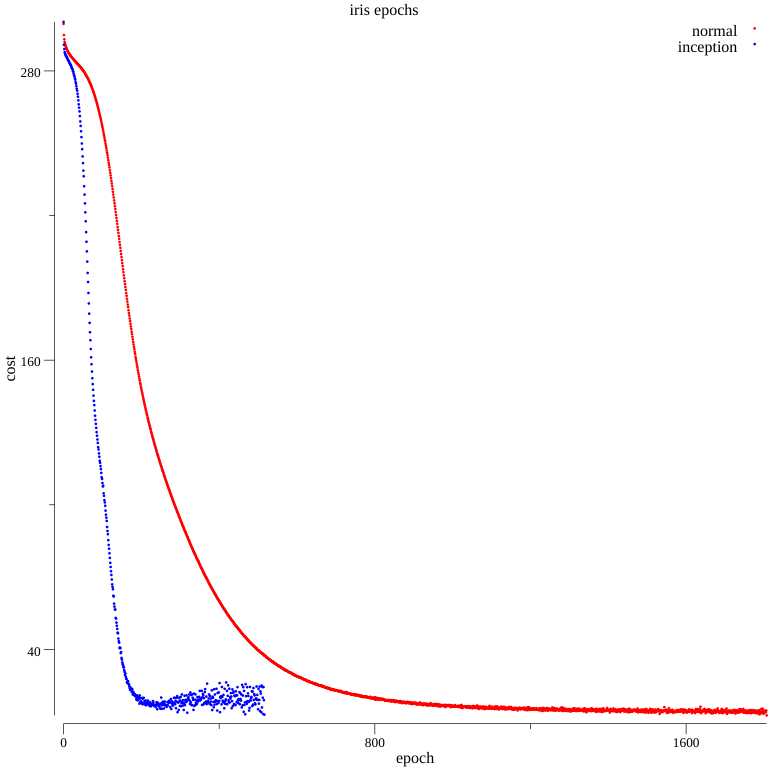
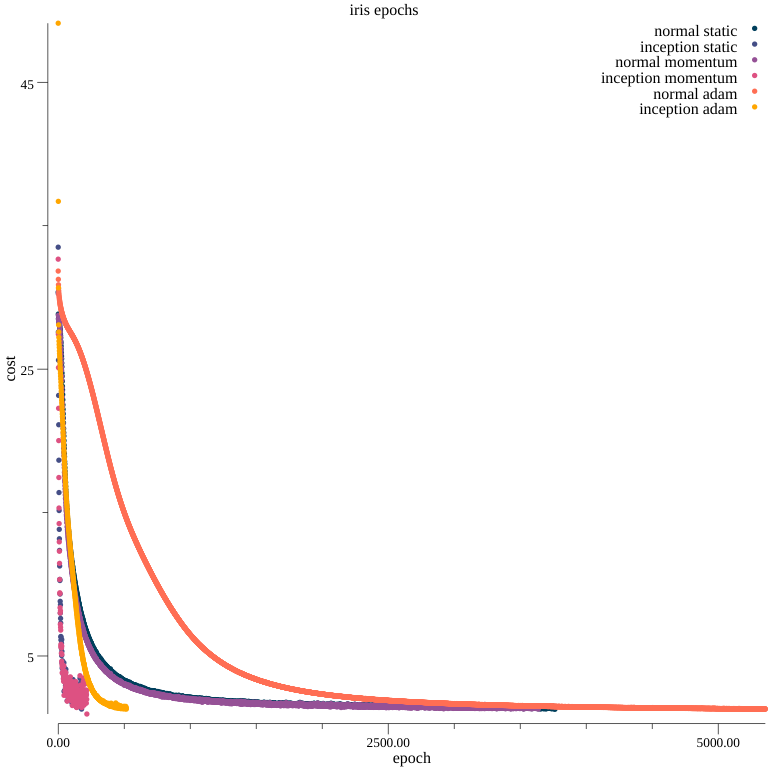
Updated results

diff --git a/experiment_xor.go b/experiment_xor.go
@@ -7,6 +7,7 @@ package main
 import (
 	"fmt"
 	"math/rand"
+	"sort"
 
 	"gonum.org/v1/plot"
 	"gonum.org/v1/plot/plotter"
@@ -168,7 +169,7 @@ func XORExperiment(seed int64, width, depth int, optimizer Optimizer, batch, inc
 			total := tf32.Gradient(cost).X[0]
 			optimize(i)
 			costs = append(costs, total)
-			if total < .025 {
+			if total < .01 {
 				converged = true
 				break
 			}
@@ -232,25 +233,46 @@ func XORExperiment(seed int64, width, depth int, optimizer Optimizer, batch, inc
 
 // RunXORRepeatedExperiment runs multiple xor experiments
 func RunXORRepeatedExperiment() {
-	experiment := func(seed int64, inception, context bool, results chan<- Result) {
-		results <- XORExperiment(seed, 3, 16, OptimizerAdam, true, inception, false, context)
-	}
-	normalStats, inceptionStats := Statistics{}, Statistics{}
-	normalResults, inceptionResults := make(chan Result, 8), make(chan Result, 8)
-	for i := 1; i <= 256; i++ {
-		go experiment(int64(i), false, false, normalResults)
-		go experiment(int64(i), true, false, inceptionResults)
-	}
-	for normalStats.Count < 256 || inceptionStats.Count < 256 {
-		select {
-		case result := <-normalResults:
-			normalStats.Aggregate(result)
-		case result := <-inceptionResults:
-			inceptionStats.Aggregate(result)
+	run := func(optimizer Optimizer) (normalStats, inceptionStats Statistics) {
+		normalStats.Mode, inceptionStats.Mode = "normal", "inception"
+		normalStats.Optimizer, inceptionStats.Optimizer = optimizer, optimizer
+		experiment := func(seed int64, inception, context bool, results chan<- Result) {
+			results <- XORExperiment(seed, 3, 16, optimizer, true, inception, false, context)
 		}
+		normalResults, inceptionResults := make(chan Result, 8), make(chan Result, 8)
+		for i := 1; i <= 256; i++ {
+			go experiment(int64(i), false, false, normalResults)
+			go experiment(int64(i), true, false, inceptionResults)
+		}
+		for normalStats.Count < 256 || inceptionStats.Count < 256 {
+			select {
+			case result := <-normalResults:
+				normalStats.Aggregate(result)
+			case result := <-inceptionResults:
+				inceptionStats.Aggregate(result)
+			}
+		}
+		return
 	}
-	fmt.Printf("normal: %s\n", normalStats.String())
-	fmt.Printf("inception: %s\n", inceptionStats.String())
+
+	statistics := []Statistics{}
+	for _, optimizer := range Optimizers {
+		normalStats, inceptionStats := run(optimizer)
+		statistics = append(statistics, normalStats, inceptionStats)
+	}
+	sort.Slice(statistics, func(i, j int) bool {
+		return statistics[i].AverageEpochs() < statistics[j].AverageEpochs()
+	})
+
+	fmt.Println("| Mode | Optimizer | Converged | Epochs |")
+	fmt.Println("| ---- | --------- | --------- | ------ |")
+	for _, statistic := range statistics {
+		fmt.Printf("| %s | %s | %f | %f |\n",
+			statistic.Mode,
+			statistic.Optimizer.String(),
+			statistic.ConvergenceProbability(),
+			statistic.AverageEpochs())
+	}
 }
 
 // RunXORExperiment runs an xor experiment once

diff --git a/experiment_iris.go b/experiment_iris.go
@@ -8,6 +8,7 @@ import (
 	"fmt"
 	"math"
 	"math/rand"
+	"sort"
 	"sync"
 
 	"gonum.org/v1/plot"
@@ -322,25 +323,46 @@ func IrisExperiment(seed int64, width, depth int, optimizer Optimizer, batch, in
 
 // RunIrisRepeatedExperiment runs multiple iris experiments
 func RunIrisRepeatedExperiment() {
-	experiment := func(seed int64, inception, context bool, results chan<- Result) {
-		results <- IrisExperiment(seed, 3, 4, OptimizerAdam, true, inception, false, context)
-	}
-	normalStats, inceptionStats := Statistics{}, Statistics{}
-	normalResults, inceptionResults := make(chan Result, 8), make(chan Result, 8)
-	for i := 1; i <= 256; i++ {
-		go experiment(int64(i), false, false, normalResults)
-		go experiment(int64(i), true, false, inceptionResults)
-	}
-	for normalStats.Count < 256 || inceptionStats.Count < 256 {
-		select {
-		case result := <-normalResults:
-			normalStats.Aggregate(result)
-		case result := <-inceptionResults:
-			inceptionStats.Aggregate(result)
+	run := func(optimizer Optimizer) (normalStats, inceptionStats Statistics) {
+		normalStats.Mode, inceptionStats.Mode = "normal", "inception"
+		normalStats.Optimizer, inceptionStats.Optimizer = optimizer, optimizer
+		experiment := func(seed int64, inception, context bool, results chan<- Result) {
+			results <- IrisExperiment(seed, 3, 4, optimizer, true, inception, false, context)
 		}
+		normalResults, inceptionResults := make(chan Result, 8), make(chan Result, 8)
+		for i := 1; i <= 256; i++ {
+			go experiment(int64(i), false, false, normalResults)
+			go experiment(int64(i), true, false, inceptionResults)
+		}
+		for normalStats.Count < 256 || inceptionStats.Count < 256 {
+			select {
+			case result := <-normalResults:
+				normalStats.Aggregate(result)
+			case result := <-inceptionResults:
+				inceptionStats.Aggregate(result)
+			}
+		}
+		return
 	}
-	fmt.Printf("normal: %s\n", normalStats.String())
-	fmt.Printf("inception: %s\n", inceptionStats.String())
+
+	statistics := []Statistics{}
+	for _, optimizer := range Optimizers {
+		normalStats, inceptionStats := run(optimizer)
+		statistics = append(statistics, normalStats, inceptionStats)
+	}
+	sort.Slice(statistics, func(i, j int) bool {
+		return statistics[i].AverageEpochs() < statistics[j].AverageEpochs()
+	})
+
+	fmt.Println("| Mode | Optimizer | Converged | Epochs |")
+	fmt.Println("| ---- | --------- | --------- | ------ |")
+	for _, statistic := range statistics {
+		fmt.Printf("| %s | %s | %f | %f |\n",
+			statistic.Mode,
+			statistic.Optimizer.String(),
+			statistic.ConvergenceProbability(),
+			statistic.AverageEpochs())
+	}
 }
 
 // RunIrisExperiment runs an iris experiment once

diff --git a/main.go b/main.go
@@ -22,6 +22,8 @@ type Result struct {
 
 // Statistics aggregation of results
 type Statistics struct {
+	Mode      string
+	Optimizer Optimizer
 	Count     int
 	Converged int
 	Epochs    int
@@ -36,9 +38,19 @@ func (s *Statistics) Aggregate(result Result) {
 	}
 }
 
+// ConvergenceProbability the probability of convergence
+func (s *Statistics) ConvergenceProbability() float64 {
+	return float64(s.Converged) / float64(s.Count)
+}
+
+// AverageEpochs the average epochs
+func (s *Statistics) AverageEpochs() float64 {
+	return float64(s.Epochs) / float64(s.Converged)
+}
+
 // String generates a string for the statistics
 func (s *Statistics) String() string {
-	return fmt.Sprintf("%f %f", float64(s.Converged)/float64(s.Count), float64(s.Epochs)/float64(s.Converged))
+	return fmt.Sprintf("%f %f", s.ConvergenceProbability(), s.AverageEpochs())
 }
 
 // Optimizer an optimizer type

diff --git a/README.md b/README.md
@@ -2,7 +2,27 @@
 A normal neural network layer has the form of sigmoid(A\*X + B). This experiment sets A = A<sub>1</sub>\*A<sub>2</sub> + A<sub>3</sub> and B = B<sub>1</sub>\*B<sub>2</sub> + B<sub>3</sub> so that the layer is now of the form sigmoid((A<sub>1</sub>\*A<sub>2</sub> + A<sub>3</sub>)\*X + B<sub>1</sub>\*B<sub>2</sub> + B<sub>3</sub>). This form results in faster convergence, and the terms (A<sub>1</sub>\*A<sub>2</sub> + A<sub>3</sub>) and (B<sub>1</sub>\*B<sub>2</sub> + B<sub>3</sub>) can be compressed down to matrices after training.
 
 ## Results
-This idea has been tested on two problems: xor function and the iris dataset. In repeated experiments the xor function is learned ~4x faster and the iris dataset is learned ~2x faster. The faster learning rate does come at considerable computational cost. The increased rate is likely the result of an interplay between the [adam](https://arxiv.org/abs/1412.6980) filters and the network weights.
+This idea has been tested on two problems: xor function and the iris dataset. In repeated experiments the xor function is learned ~10x faster and the iris dataset is learned ~10x faster. The faster learning rate does come at considerable computational cost. The increased rate is likely the result of an interplay between the optimizer and the network weights.
+
+### XOR Experiments
+| Mode | Optimizer | Converged | Epochs |
+| ---- | --------- | --------- | ------ |
+| inception | static | 0.941406 | 230.319502 |
+| inception | momentum | 0.949219 | 271.798354 |
+| inception | adam | 0.937500 | 422.245833 |
+| normal | momentum | 0.976562 | 3157.240000 |
+| normal | static | 0.972656 | 3480.598394 |
+| normal | adam | 0.855469 | 4882.771689 |
+
+### Iris Experiments
+| Mode | Optimizer | Converged | Epochs |
+| ---- | --------- | --------- | ------ |
+| inception | momentum | 1.000000 | 206.394531 |
+| inception | static | 1.000000 | 213.019531 |
+| inception | adam | 1.000000 | 557.566406 |
+| normal | momentum | 1.000000 | 3565.992188 |
+| normal | static | 1.000000 | 3934.128906 |
+| normal | adam | 1.000000 | 5352.332031 |
 
 Below are example traces of the cost vs epochs for xor and iris:
 
